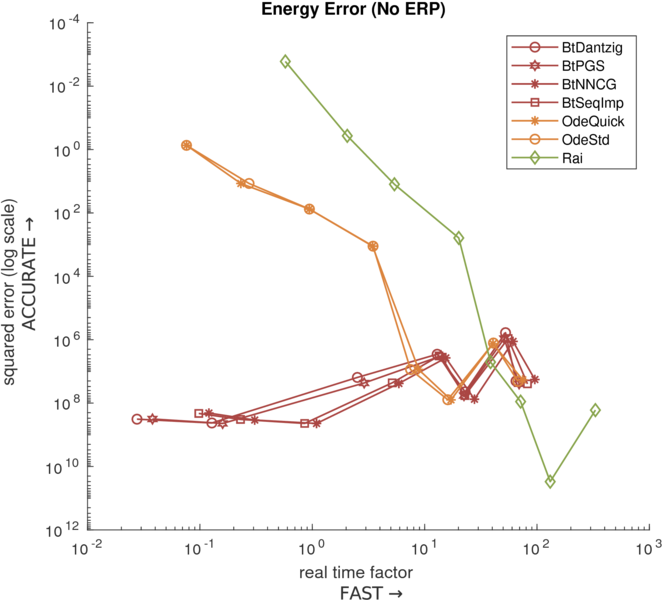
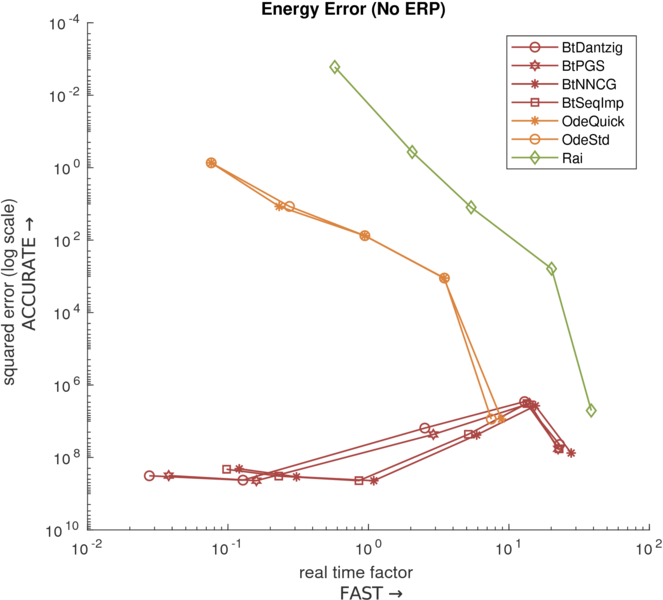
- bouncing timer - doc edited

diff --git a/docs/index.html b/docs/index.html
@@ -23,19 +23,104 @@ layout: default
 
 <h2>Methodology</h2>
 
+<blockquote>
+<p>
+  We are focusing on velocity, position, energy and momentum drift of rigid body objects. Specifically, we investigates the accuracy of the contact solvers and integrators in the terms of position/velocity drift and momentum/energy conservation.
+</p>
+<p>
+  The numerical error of constraint solvers and integrators are rely on time-step and the number of iterations. For the iterative solvers, accuracy is typically improved as the number of the iteration is increased. A numerical integrator of order n has error proportional to h<sup>n</sup>.
+  Therefore we considered speed-accuracy trade-off. The better simulator is positioned in upper-right side.
+</p>
+</blockquote>
+
 More details of benchmark methodology is <a href="about/methodology.html">here</a>.
 
 <h2>Test results</h2>
 
+<p>
+  <table style="width:100%">
+   <tr>
+     <th>Sim</th>
+     <th>Rolling</th>
+     <th>Bouncing</th>
+     <th>666</th>
+     <th>Elastic 666</th>
+     <th>ANYmal PD</th>
+     <th>ANYmal zero g</th>
+     <th>ANYmal free drop</th>
+   </tr>
+   <tr>
+     <td>RaiSim</td>
+     <td><font color="green"><b>+++</b></font></td>
+     <td></td>
+     <td><font color="green"><b>++++</b></font></td>
+     <td><font color="green"><b>++</b></font></td>
+     <td><font color="green"><b>+++++</b></font></td>
+     <td></td>
+     <td></td>
+   </tr>
+   <tr>
+     <td>Bullet</td>
+     <td><font color="green"><b>+++</b></font></td>
+     <td><font color="red">-</font></td>
+     <td>+++</td>
+     <td><font color="red">-</font></td>
+     <td>+++</td>
+     <td></td>
+     <td></td>
+   </tr>
+   <tr>
+     <td>ODE</td>
+     <td><font color="red">-</font></td>
+     <td></td>
+     <td>++</td>
+     <td>+</td>
+     <td>+</td>
+     <td></td>
+     <td></td>
+   </tr>
+   <tr>
+     <td>MuJoCo</td>
+     <td>+</td>
+     <td><font color="red">-</font></td>
+     <td>+</td>
+     <td><font color="red">-</font></td>
+     <td>++++</td>
+     <td></td>
+     <td></td>
+   </tr>
+   <tr>
+     <td>DART</td>
+     <td><font color="red">-</font></td>
+     <td></td>
+     <td><font color="red">x</font></td>
+     <td><font color="red">x</font></td>
+     <td>++</td>
+     <td></td>
+     <td></td>
+   </tr>
+  </table>
+</p>
+
 <ul>
-    <li><a href="rolling/rolling.html">Rolling test</a>: friction model test</li>
-    <li><a href="bouncing/bouncing.html">Bouncing test</a>: single-body elastic/inelastic collision test</li>
-    <li><a href="666/666.html">666 balls test</a>: single-body hard contact test</li>
-    <li><a href="666/666-elastic.html">Elastic 666 balls test</a>: single-body energy test</li>
-    <li><a href="anymal/anymal.html">ANYmal PD control test</a>: articulated-robot-system speed test</li>
-    <li><a href="anymal-momentum/anymal-momentum.html">ANYmal zero gravity test</a>: articulated-robot-system momentum test</li>
-    <li><a href="anymal-energy/anymal-energy.html">ANYmal free drop test</a>: articulated-robot-system energy test</li>
+  <li>more + is better
+  <li><font color="green"><b>+</b></font>: best results
+  <li><font color="red">-</font>: cannot simulate due to inaccurate model
+  <li><font color="red">x</font>: simulation fails due to error
 </ul>
+
+<hr>
+<p>
+  <ul>
+      <li><a href="rolling/rolling.html">Rolling test</a>: friction model test</li>
+      <li><a href="bouncing/bouncing.html">Bouncing test</a>: single-body elastic/inelastic collision test</li>
+      <li><a href="666/666.html">666 balls test</a>: single-body hard contact test</li>
+      <li><a href="666/666-elastic.html">Elastic 666 balls test</a>: single-body energy test</li>
+      <li><a href="anymal/anymal.html">ANYmal PD control test</a>: articulated-robot-system speed test</li>
+      <li><a href="anymal-momentum/anymal-momentum.html">ANYmal zero gravity test</a>: articulated-robot-system momentum test</li>
+      <li><a href="anymal-energy/anymal-energy.html">ANYmal free drop test</a>: articulated-robot-system energy test</li>
+  </ul>
+</p>
 
 <h2>Commentary</h2>
 

diff --git a/docs/about/methodology.html b/docs/about/methodology.html
@@ -55,5 +55,5 @@ layout: default
 <h2>References</h2>
 
 <ul>
-  <li><a href="" id="[1]">[1]</a></li>.
+  <li id="[1]">[1] Erez, Tom, Yuval Tassa, and Emanuel Todorov. "Simulation tools for model-based robotics: Comparison of bullet, havok, mujoco, ode and physx." Robotics and Automation (ICRA), 2015 IEEE International Conference on. IEEE, 2015.</li>.
 </ul>

diff --git a/etc/matlab/plot-gen/bouncing.m b/etc/matlab/plot-gen/bouncing.m
@@ -6,7 +6,7 @@ format long
 addpath(genpath('../lib/yamlmatlab'))
 
 % data path
-data_dir = '../../../data/bouncing/';
+data_dir = '../../../data/bouncing';
 % plot_path = strcat(data_dir, 'plots/');
 
 % yaml path
@@ -46,7 +46,8 @@ entry = {...
     'ERP', ...
     'RESTITUTION', ...
     'TIMESTEP', ...
-    'ERROR'
+    'ERROR', ...
+    'TIME'
     };
 
 plotSpec = plotspec;
@@ -110,6 +111,7 @@ for i = 1:length(testOptions)
                     );
                 
                 meanerror = mean(energy_error(const, opt, energy));
+                time = timer_value(curr);
                 
                 data = {...
                     sim, ...
@@ -117,7 +119,8 @@ for i = 1:length(testOptions)
                     logical(erp), ...
                     res, ...
                     str2double(timestep), ...
-                    meanerror...
+                    meanerror, ...
+                    timer ...
                     };
                 T = [T; data];
             end
@@ -143,17 +146,17 @@ erpYe08 = plotoption;
 
 % error plot vs dt
 disp('plotting error vs timestep...')
-plot_error_dt(T, const, plotSpec, false, 1.0, '-noerp-e=1.0', '(No Erp / e = 1.0)', erpNe1);
-plot_error_dt(T, const, plotSpec, false, 0.8, '-noerp-e=0.8', '(No Erp / e = 0.8)', erpNe08);
-plot_error_dt(T, const, plotSpec, true, 1.0, '-erp-e=1.0', '(Erp / e = 1.0)', erpYe1);
-plot_error_dt(T, const, plotSpec, true, 0.8, '-erp-e=0.8', '(Erp / e = 0.8)', erpYe08);
+plot_error_speed(T, const, plotSpec, false, 1.0, '-noerp-e=1.0', '(No Erp / e = 1.0)', erpNe1);
+plot_error_speed(T, const, plotSpec, false, 0.8, '-noerp-e=0.8', '(No Erp / e = 0.8)', erpNe08);
+plot_error_speed(T, const, plotSpec, true, 1.0, '-erp-e=1.0', '(Erp / e = 1.0)', erpYe1);
+plot_error_speed(T, const, plotSpec, true, 0.8, '-erp-e=0.8', '(Erp / e = 0.8)', erpYe08);
 
 
 %%%%%%%%%%%%%%%%%%%%%%%%%%%%%%%%%%%%%%%%%%%%%%%%%%%%%%%%%%%%%%%%%%%%%%%%%%%
 %% functions
 %%%%%%%%%%%%%%%%%%%%%%%%%%%%%%%%%%%%%%%%%%%%%%%%%%%%%%%%%%%%%%%%%%%%%%%%%%%
 
-function plot_error_dt(dataTable, const, plotSpec, erpYN, e, fileName, plotTitle, plotOption)
+function plot_error_speed(dataTable, const, plotSpec, erpYN, e, fileName, plotTitle, plotOption)
 
 % filter
 dataTable = dataTable(...
@@ -179,7 +182,7 @@ for i = 1:length(sims)
         solver = solvers(j);
         
         % e.g. RAIRAI or BULLETNNCG
-        name = strcat(cellstr(sim), cellstr(solver));
+        name = strcat(cellstr(sim), cellstr(solver), cellstr(sim));
         
         % check plot option
         if ~getfield(plotOption, char(name))
@@ -193,7 +196,7 @@ for i = 1:length(sims)
         % plot
         plotspec = getfield(plotSpec, char(name));
         
-        plot(data.TIMESTEP, ...
+        plot(const.T ./ data.TIME, ...
             data.ERROR, ...
             plotspec{1}, ...
             'DisplayName', plotspec{2}, ...
@@ -220,6 +223,7 @@ R = consts.R;
 g = abs(consts.g);
 T = consts.T;
 m = consts.m;
+n = consts.n * consts.n;
 
 erp = options.erp;
 e = options.e;
@@ -230,7 +234,7 @@ t_tol = 1e-5;
 
 % init
 t0 = sqrt(2 * (h0 - R) / g);
-E0 = m * g * h0;
+E0 = m * g * h0 * n;
 
 h_array = [h0];
 E_array = [E0];

diff --git a/sim/bulletSim/benchmark/BouncingBenchmark.cpp b/sim/bulletSim/benchmark/BouncingBenchmark.cpp
@@ -97,6 +97,9 @@ void simulationLoop() {
   }
   else {
     // no gui
+    if(benchmark::bouncing::options.log)
+      ru::timer->startTimer("bouncing");
+
     for(int i = 0; i < (int) (benchmark::bouncing::params.T / benchmark::bouncing::options.dt); i++) {
       sim->integrate(benchmark::bouncing::options.dt);
 
@@ -108,6 +111,9 @@ void simulationLoop() {
         rai::Utils::logger->appendData("energy", energy);
       }
     }
+
+    if(benchmark::bouncing::options.log)
+      ru::timer->stopTimer("bouncing");
   }
 }
 

diff --git a/sim/odeSim/benchmark/BouncingBenchmark.cpp b/sim/odeSim/benchmark/BouncingBenchmark.cpp
@@ -96,6 +96,9 @@ void simulationLoop() {
   }
   else {
     // no gui
+    if(benchmark::bouncing::options.log)
+      ru::timer->startTimer("bouncing");
+
     for(int i = 0; i < (int) (benchmark::bouncing::params.T / benchmark::bouncing::options.dt); i++) {
       sim->integrate(benchmark::bouncing::options.dt);
 
@@ -107,6 +110,9 @@ void simulationLoop() {
         rai::Utils::logger->appendData("energy", energy);
       }
     }
+
+    if(benchmark::bouncing::options.log)
+      ru::timer->stopTimer("bouncing");
   }
 }
 

diff --git a/sim/raiSim/benchmark/BouncingBenchmark.cpp b/sim/raiSim/benchmark/BouncingBenchmark.cpp
@@ -97,6 +97,9 @@ void simulationLoop() {
   }
   else {
     // no gui
+    if(benchmark::bouncing::options.log)
+      ru::timer->startTimer("bouncing");
+
     for(int i = 0; i < (int) (benchmark::bouncing::params.T / benchmark::bouncing::options.dt); i++) {
 
       if(benchmark::bouncing::options.log) {
@@ -109,6 +112,9 @@ void simulationLoop() {
 
       sim->integrate(benchmark::bouncing::options.dt);
     }
+
+    if(benchmark::bouncing::options.log)
+      ru::timer->stopTimer("bouncing");
   }
 }
 

diff --git a/sim/dartSim/benchmark/BouncingBenchmark.cpp b/sim/dartSim/benchmark/BouncingBenchmark.cpp
@@ -97,6 +97,9 @@ void simulationLoop() {
   }
   else {
     // no gui
+    if(benchmark::bouncing::options.log)
+      ru::timer->startTimer("bouncing");
+
     for(int i = 0; i < (int) (benchmark::bouncing::params.T / benchmark::bouncing::options.dt); i++) {
       sim->integrate();
 
@@ -108,6 +111,9 @@ void simulationLoop() {
         rai::Utils::logger->appendData("energy", energy);
       }
     }
+
+    if(benchmark::bouncing::options.log)
+      ru::timer->stopTimer("bouncing");
   }
 }
 

diff --git a/sim/mujocoSim/benchmark/BouncingBenchmark.cpp b/sim/mujocoSim/benchmark/BouncingBenchmark.cpp
@@ -98,6 +98,9 @@ void simulationLoop() {
   }
   else {
     // no gui
+    if(benchmark::bouncing::options.log)
+      ru::timer->startTimer("bouncing");
+
     for(int i = 0; i < (int) (benchmark::bouncing::params.T / benchmark::bouncing::options.dt); i++) {
       sim->integrate();
 
@@ -111,6 +114,9 @@ void simulationLoop() {
         rai::Utils::logger->appendData("energy", energy);
       }
     }
+
+    if(benchmark::bouncing::options.log)
+      ru::timer->stopTimer("bouncing");
   }
 }
 

diff --git a/benchmark/BouncingBenchmark.hpp b/benchmark/BouncingBenchmark.hpp
@@ -259,6 +259,11 @@ void loggerSetup(std::string path, std::string name) {
   ru::logger->setLogFileName(name);
   ru::logger->setOptions(ru::ONEFILE_FOR_ONEDATA);
   ru::logger->addVariableToLog(1, "energy", "energy of balls");
+
+  // timer
+  std::string timer = name + "timer";
+  ru::timer->setLogPath(path);
+  ru::timer->setLogFileName(timer);
 }
 
 } // benchmark::bouncing
